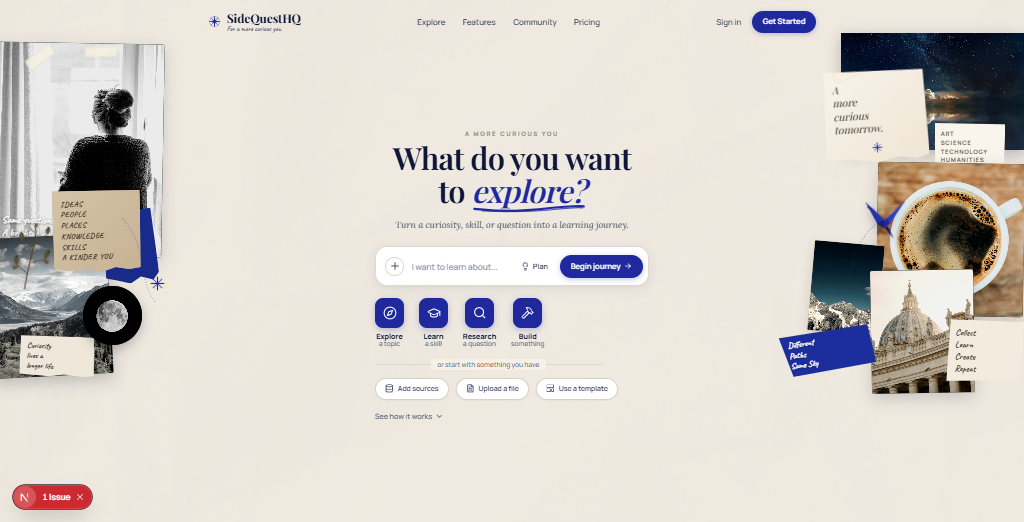
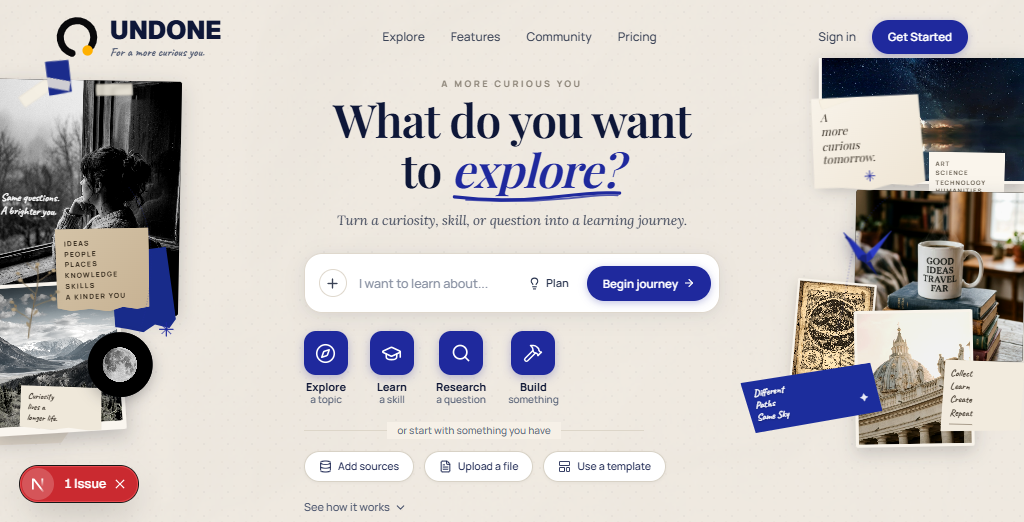
style(landing): widen search input bar and equally space action tiles with center alignment
Central Interface updates:
- Widen the typing input card from 436px to 580px with increased height (64px) and larger typography (14px)
- Expand centralInterface container to 660px to accommodate the wider layout
- Refactor actionTilesGrid to a 4-column CSS grid (repeat(4, 1fr)) with max-width 580px so all 4 action items (Explore, Learn, Research, Build) are mathematically equally spaced, spread evenly across the input width, and dead-center aligned
- Enlarge tile icon squares to 48x48px with centered icons and labels
- Widen the secondary divider line to 420px to balance the wider central composition

diff --git a/src/client/screens/landing/ReconstructedHero/ReconstructedHero.module.css b/src/client/screens/landing/ReconstructedHero/ReconstructedHero.module.css
@@ -185,7 +185,7 @@
 .centralInterface {
   position: relative;
   z-index: 30;
-  max-width: 540px;
+  max-width: 660px;
   width: 100%;
   margin: 0 auto;
   display: flex;
@@ -246,23 +246,31 @@
 /* Input Card */
 .inputCard {
   width: 100%;
-  max-width: 436px;
-  height: 60px;
+  max-width: 580px;
+  height: 64px;
   background-color: #FFFFFF;
   border: 1px solid #DFD8CD;
-  border-radius: 18px;
+  border-radius: 20px;
   display: flex;
   align-items: center;
-  padding: 0 8px 0 14px;
+  padding: 0 10px 0 16px;
   box-shadow: 
-    0 4px 22px -2px rgba(14, 23, 56, 0.08),
-    0 2px 8px -1px rgba(14, 23, 56, 0.04);
+    0 6px 26px -2px rgba(14, 23, 56, 0.09),
+    0 2px 10px -1px rgba(14, 23, 56, 0.04);
   box-sizing: border-box;
+  transition: border-color 0.15s ease, box-shadow 0.15s ease;
+}
+
+.inputCard:focus-within {
+  border-color: #1F299D;
+  box-shadow: 
+    0 8px 30px -2px rgba(31, 41, 157, 0.14),
+    0 2px 10px -1px rgba(14, 23, 56, 0.06);
 }
 
 .plusButton {
-  width: 28px;
-  height: 28px;
+  width: 32px;
+  height: 32px;
   border-radius: 50%;
   border: 1px solid #DFD8CD;
   background-color: #FFFFFF;
@@ -283,12 +291,12 @@
 .textInput {
   flex: 1;
   font-family: var(--font-manrope-next), sans-serif;
-  font-size: 12.5px;
+  font-size: 14px;
   color: #0E1738;
   background: transparent;
   border: none;
   outline: none;
-  padding: 0 12px;
+  padding: 0 16px;
 }
 
 .textInput::placeholder {
@@ -344,22 +352,30 @@
   transform: translateY(-0.5px);
 }
 
-/* Action 4 Tiles */
+/* Action 4 Tiles - Equally spaced and center-aligned */
 .actionTilesGrid {
-  display: flex;
-  gap: 22px;
-  margin-top: 18px;
+  width: 100%;
+  max-width: 580px;
+  display: grid;
+  grid-template-columns: repeat(4, 1fr);
+  justify-items: center;
+  align-items: start;
+  margin-top: 24px;
 }
 
 .actionTile {
+  width: 100%;
   display: flex;
   flex-direction: column;
   align-items: center;
+  justify-content: flex-start;
+  text-align: center;
   cursor: pointer;
   background: transparent;
   border: none;
-  padding: 0;
+  padding: 0 4px;
   transition: transform 0.15s ease;
+  box-sizing: border-box;
 }
 
 .actionTile:hover {
@@ -367,45 +383,55 @@
 }
 
 .tileIconSquare {
-  width: 44px;
-  height: 44px;
-  border-radius: 12px;
+  width: 48px;
+  height: 48px;
+  border-radius: 14px;
   background-color: #1F299D;
   display: flex;
   align-items: center;
   justify-content: center;
   color: #FFFFFF;
-  box-shadow: 0 3px 10px rgba(31, 41, 157, 0.28);
+  box-shadow: 0 4px 12px rgba(31, 41, 157, 0.28);
+  margin: 0 auto;
+  flex-shrink: 0;
 }
 
 .tileLabels {
+  width: 100%;
   display: flex;
   flex-direction: column;
   align-items: center;
-  margin-top: 6px;
+  text-align: center;
+  margin-top: 8px;
 }
 
 .tileAction {
   font-family: var(--font-manrope-next), sans-serif;
-  font-size: 11px;
+  font-size: 12px;
   font-weight: 700;
   color: #0E1635;
-  line-height: 1.15;
+  line-height: 1.25;
+  text-align: center;
+  display: block;
 }
 
 .tileTarget {
   font-family: var(--font-manrope-next), sans-serif;
-  font-size: 10px;
-  font-weight: 400;
+  font-size: 10.5px;
+  font-weight: 500;
   color: #596378;
-  line-height: 1.15;
+  line-height: 1.25;
+  text-align: center;
+  display: block;
+  margin-top: 2px;
 }
 
 /* Divider */
 .dividerWrapper {
   position: relative;
-  width: 340px;
-  margin-top: 16px;
+  width: 100%;
+  max-width: 420px;
+  margin-top: 22px;
   display: flex;
   align-items: center;
   justify-content: center;
@@ -784,12 +810,12 @@
 .disciplinesStrip {
   position: absolute;
   top: 130px;
-  right: 26px;
-  width: 106px;
+  right: 18px;
+  width: 124px;
   background: #FAF5EC;
-  padding: 11px 9px;
+  padding: 12px 10px;
   box-shadow: 0 4px 14px rgba(25, 20, 15, 0.15);
-  z-index: 20;
+  z-index: 18;
   clip-path: polygon(
     0% 0%, 100% 2%, 97% 98%, 0% 96%
   );
@@ -797,13 +823,14 @@
 
 .disciplinesText {
   font-family: var(--font-manrope-next), sans-serif;
-  font-size: 8.5px;
+  font-size: 8px;
   font-weight: 700;
   color: #635A4C;
-  letter-spacing: 0.16em;
-  line-height: 1.5;
+  letter-spacing: 0.15em;
+  line-height: 1.55;
   margin: 0;
   text-transform: uppercase;
+  white-space: pre;
 }
 
 /* R4 Origami Crane */
@@ -984,11 +1011,11 @@
    ========================================================================== */
 @media (min-width: 1400px) {
   .collageLeft {
-    transform: scale(1.12);
+    transform: scale(1.04);
     transform-origin: top left;
   }
   .collageRight {
-    transform: scale(1.12);
+    transform: scale(1.04);
     transform-origin: top right;
   }
 }
